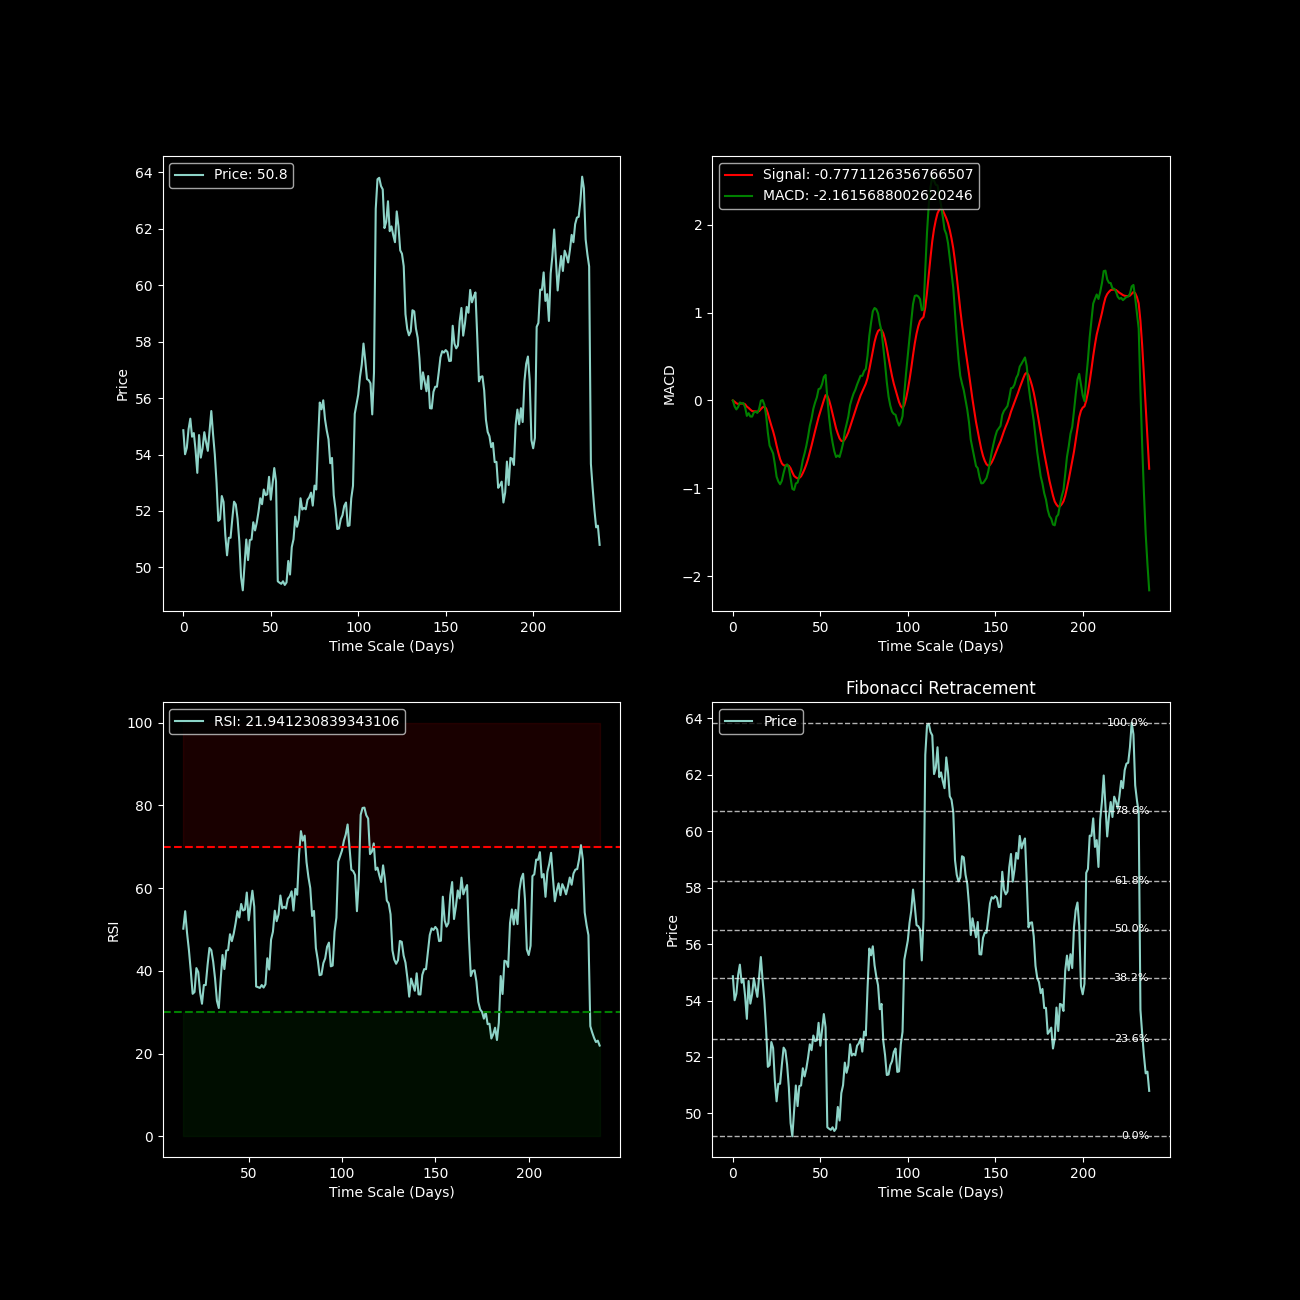
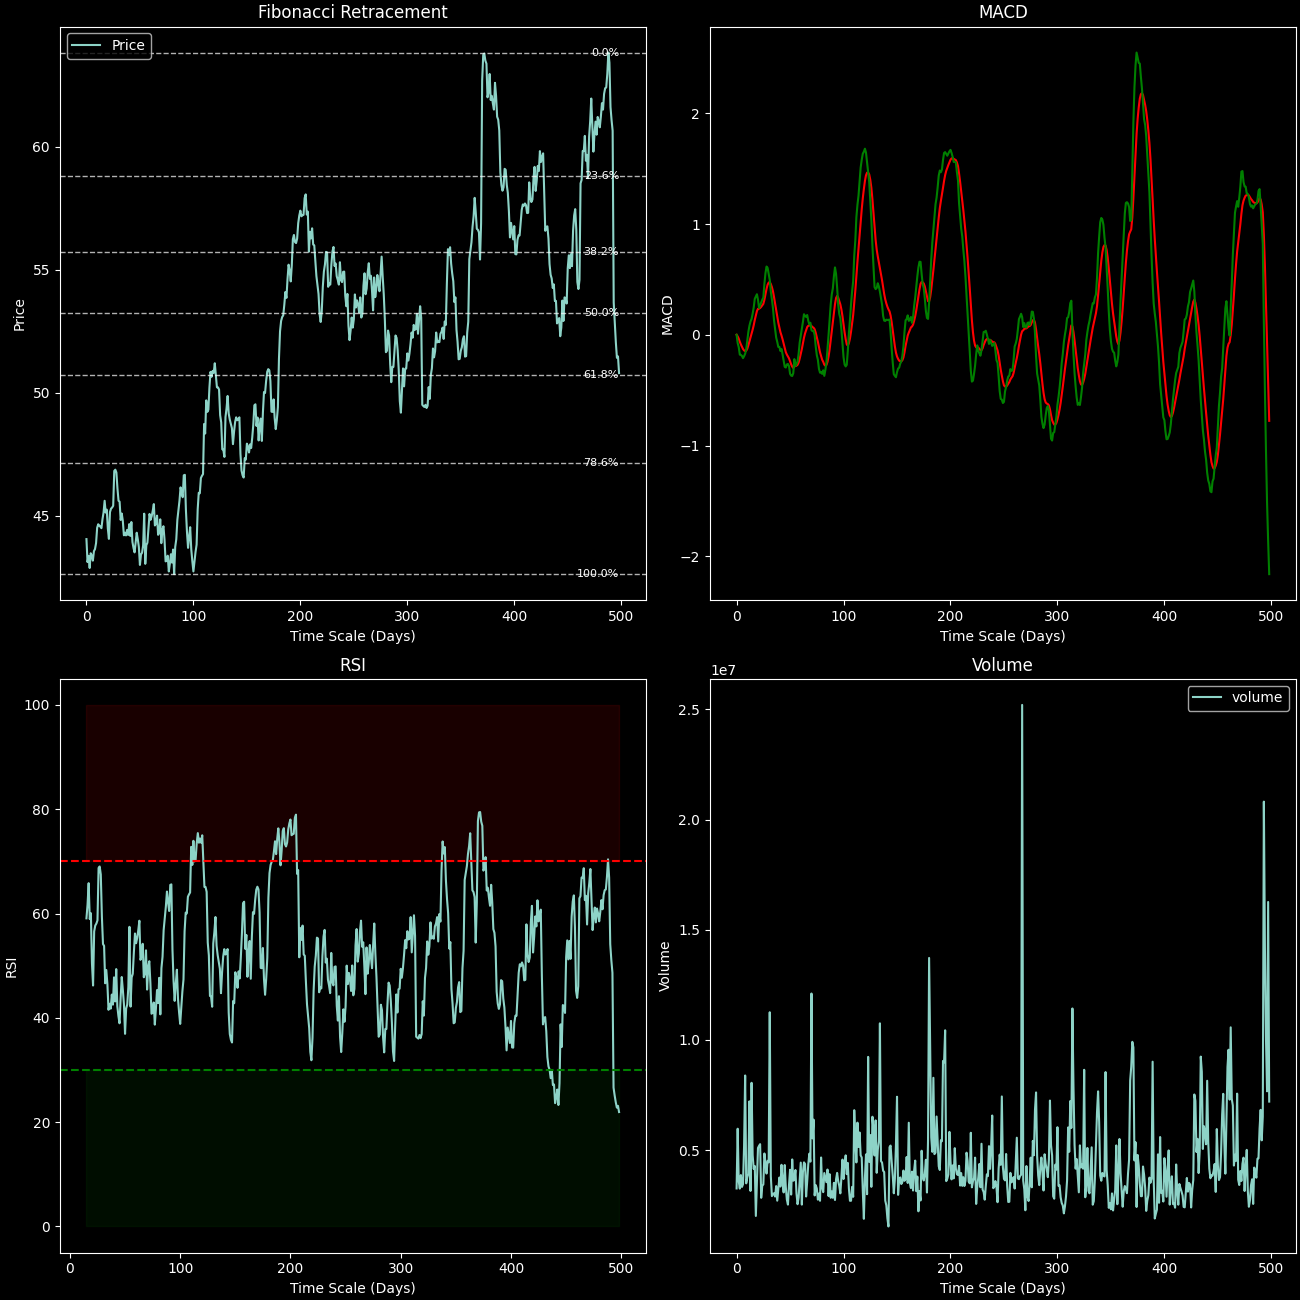
more QOL changes, condensed price into fib seq so now its just one chart for obvious reasons. Added volume in place.

diff --git a/back-end/main.py b/back-end/main.py
@@ -4,13 +4,14 @@ plt.switch_backend('TkAgg')
 plt.style.use('dark_background')
 
 CurrentDate = datetime.date.today()
-PreviousDate = CurrentDate - datetime.timedelta(days=7 * 50)
+PreviousDate = CurrentDate - datetime.timedelta(days=7 * 104)
 while True:
     try:
         ticker = str(input("Please enter a ticker: ")).upper()
         request = requests.get(f"https://api.polygon.io/v2/aggs/ticker/{ticker}/range/1/day/{PreviousDate.isoformat()}/{CurrentDate.isoformat()}?adjusted=true&sort=asc&limit=50000&apiKey=9cZNiOhwCdE5QpMY8aSsIWh3Z6BVavVC").json()['results']
         data = parseDataPolygon(request)
         currentPriceData = data[1]
+        currentVolumeData = data[5]
         try:
             newPrice = float(input(f"Current daily price: {currentPriceData[-1]}\n"
                                    f"Enter a current daily price or -1 to skip: "))
@@ -31,13 +32,20 @@ while True:
     macd = calculateMACD(currentPriceData, periodFastMacd, periodSlowMacd, signalPeriodMacd)
     fib = calculateFibonacciRetracements(currentPriceData)
 
-    fig, axs = plt.subplots(2,2, figsize=(13,13))
+    fig, axs = plt.subplots(2,2, figsize=(13,13), constrained_layout=True)
 
-    # Plot the price
-    axs[0, 0].plot([i for i in range(len(currentPriceData))], currentPriceData, label=f"Price: {currentPriceData[-1]}")
+
+    # Plot the Fibonacci Retracements
+    axs[0, 0].plot(range(len(currentPriceData)), currentPriceData, label="Price", linewidth=1.5)
+    labels = ['0.0%', '23.6%', '38.2%', '50.0%', '61.8%', '78.6%', '100.0%']
+    for lvl, label in zip(fib, labels):
+        axs[0, 0].axhline(y=lvl, linestyle='--', linewidth=1, alpha=0.7)
+        axs[0, 0].text(len(currentPriceData) - 1, lvl, label, va='center', ha='right', fontsize=8)
+
+    axs[0, 0].set_title("Fibonacci Retracement")
     axs[0, 0].set_xlabel("Time Scale (Days)")
     axs[0, 0].set_ylabel("Price")
-    axs[0, 0].legend(loc="upper left")
+    axs[0, 0].legend()
 
     # Plot the RSI
     axs[1, 0].plot([i + periodRSI + 1 for i in range(len(rsi))], rsi, label=f"RSI: {rsi[-1]}")
@@ -45,27 +53,22 @@ while True:
     axs[1, 0].axhline(30, color='green', linestyle='--')
     axs[1, 0].fill_between([i + periodRSI + 1 for i in range(len(rsi))], 70, 100, color='red', alpha=0.1)
     axs[1, 0].fill_between([i + periodRSI + 1 for i in range(len(rsi))], 0, 30, color='green', alpha=0.1)
+    axs[1, 0].set_title("RSI")
     axs[1, 0].set_xlabel("Time Scale (Days)")
     axs[1, 0].set_ylabel("RSI")
-    axs[1, 0].legend(loc="upper left")
 
     # Plot the MACD
     axs[0, 1].plot([i for i in range(len(macd[0]))], macd[0], color="red", label=f"Signal: {macd[0][-1]}")
     axs[0, 1].plot([i for i in range(len(macd[1]))], macd[1], color="green", label=f"MACD: {macd[1][-1]}")
+    axs[0, 1].set_title("MACD")
     axs[0, 1].set_xlabel("Time Scale (Days)")
     axs[0, 1].set_ylabel("MACD")
-    axs[0, 1].legend(loc="upper left")
 
-    # Plot the fibonacci
-    axs[1, 1].plot(range(len(currentPriceData)), currentPriceData, label="Price", linewidth=1.5)
-    labels = ['0.0%', '23.6%', '38.2%', '50.0%', '61.8%', '78.6%', '100.0%']
-    for lvl, label in zip(fib, labels):
-        axs[1, 1].axhline(y=lvl, linestyle='--', linewidth=1, alpha=0.7)
-        axs[1, 1].text(len(currentPriceData) - 1, lvl, label, va='center', ha='right', fontsize=8)
-
-    axs[1, 1].set_title("Fibonacci Retracement")
+    # Plot the Volume
+    axs[1, 1].plot(range(len(currentVolumeData)), currentVolumeData, label="volume", linewidth=1.5)
+    axs[1, 1].set_title("Volume")
     axs[1, 1].set_xlabel("Time Scale (Days)")
-    axs[1, 1].set_ylabel("Price")
+    axs[1, 1].set_ylabel("Volume")
     axs[1, 1].legend()
 
     # Save the graph and wait for next api interval

diff --git a/back-end/assessmentFunctions.py b/back-end/assessmentFunctions.py
@@ -11,8 +11,9 @@ def parseDataPolygon(results):
     high_prices = [result['h'] for result in results]
     low_prices = [result['l'] for result in results]
     open_prices = [result['o'] for result in results]
+    volume = [result['v'] for result in results]
 
-    return [dates, closing_prices, open_prices, high_prices, low_prices]
+    return [dates, closing_prices, open_prices, high_prices, low_prices, volume]
 
 def calculateRSI(closing_prices, period = 14):
     totalRSI = []
